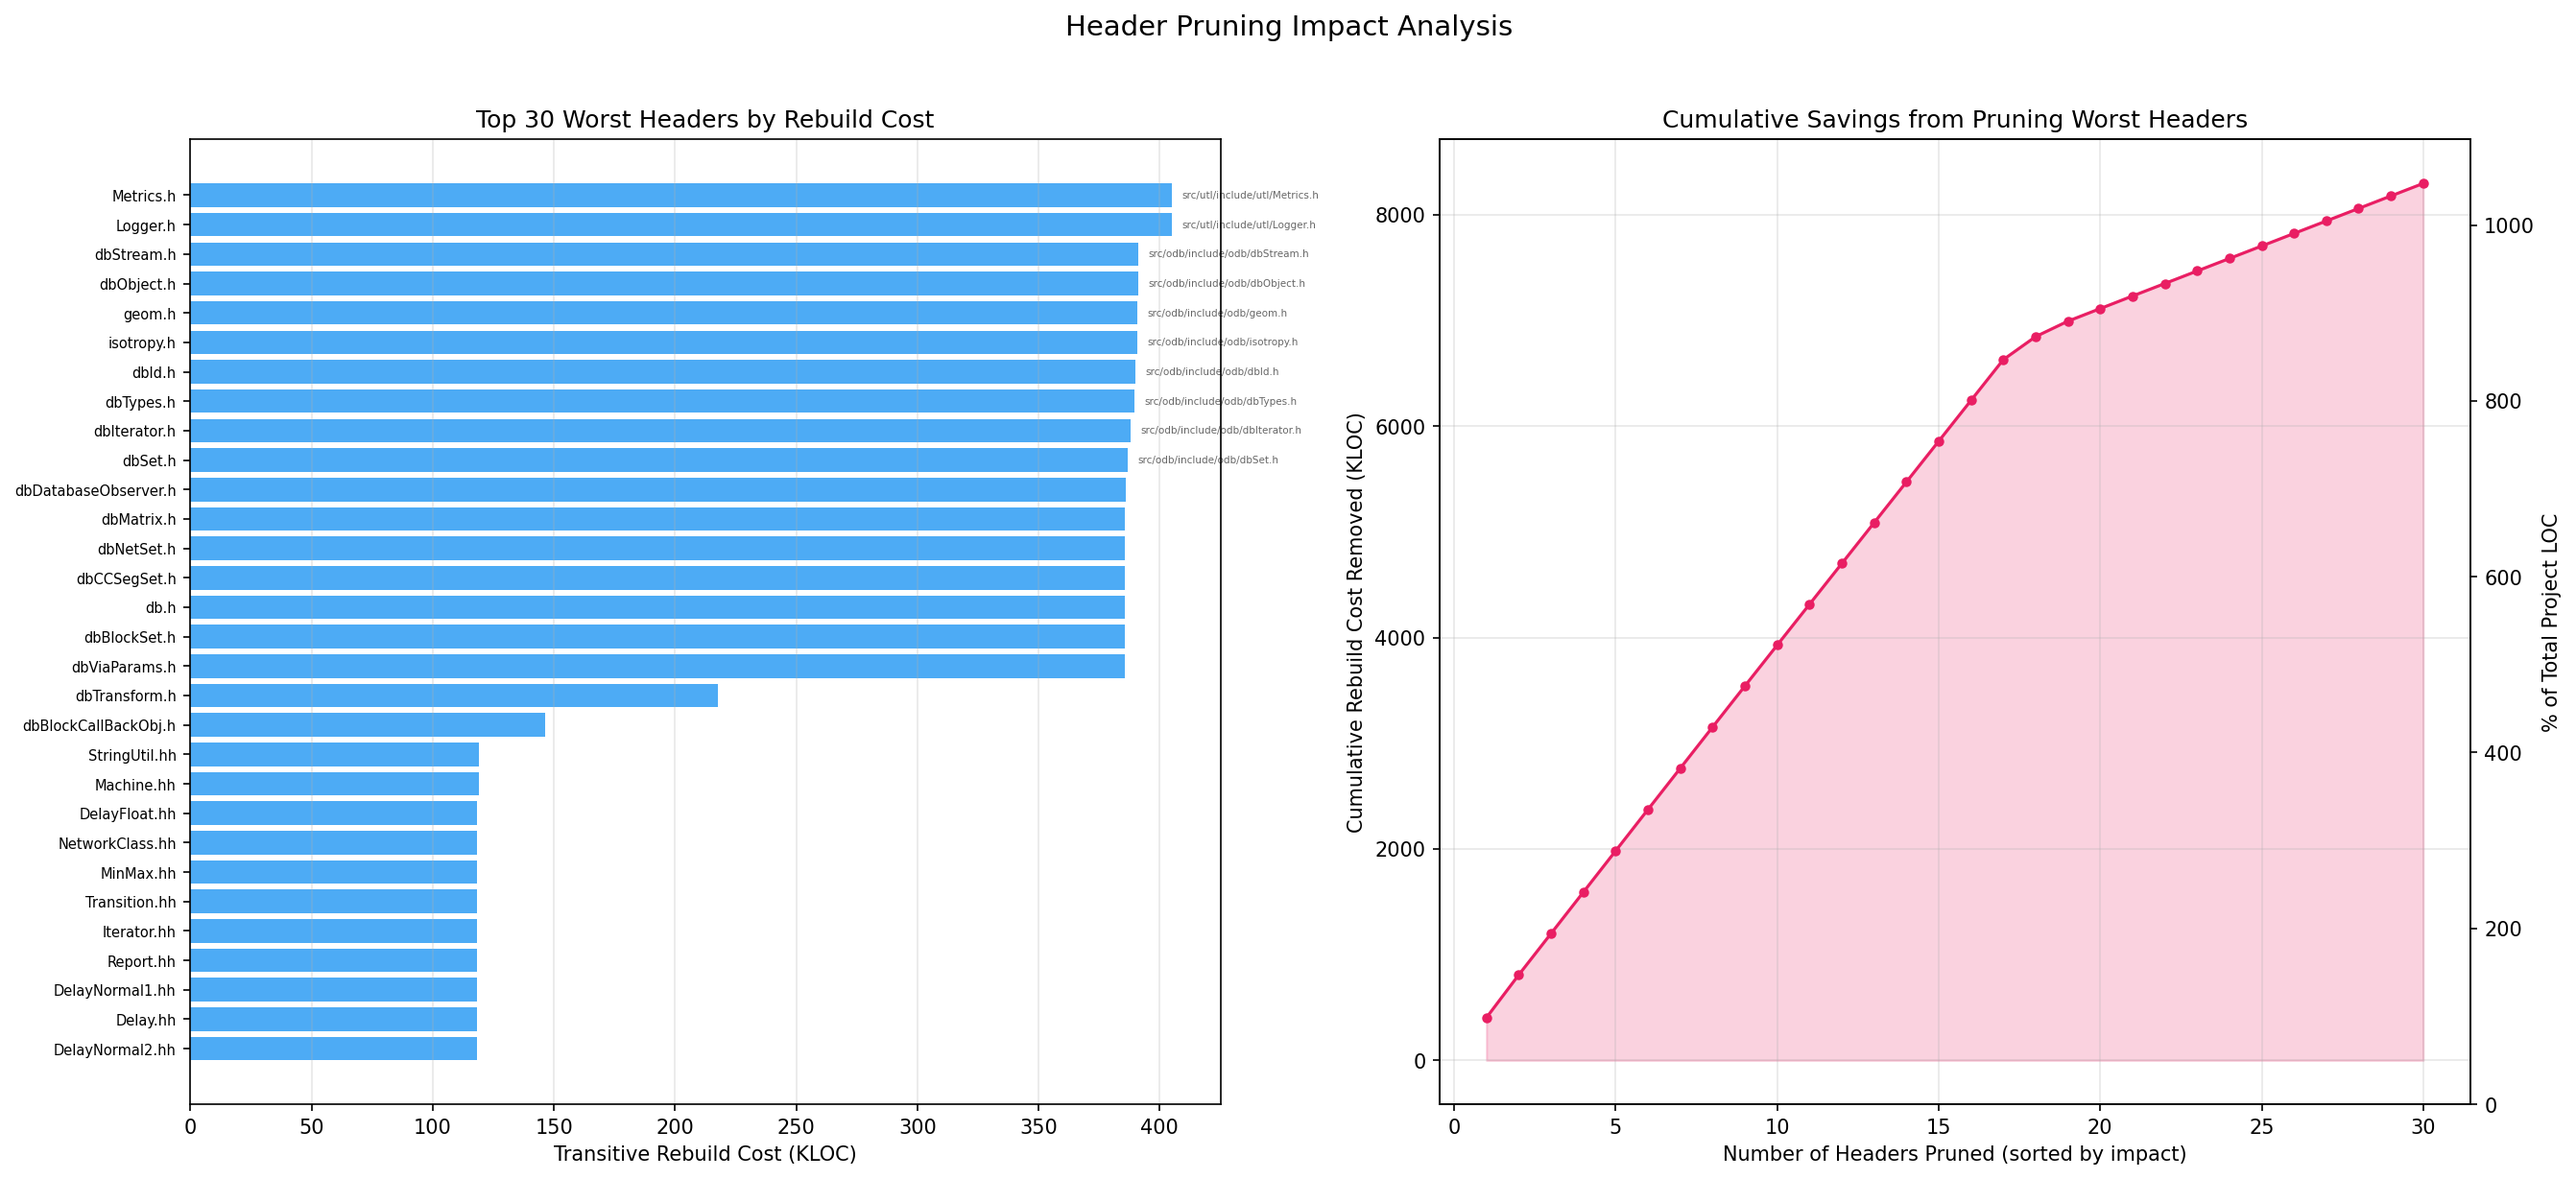
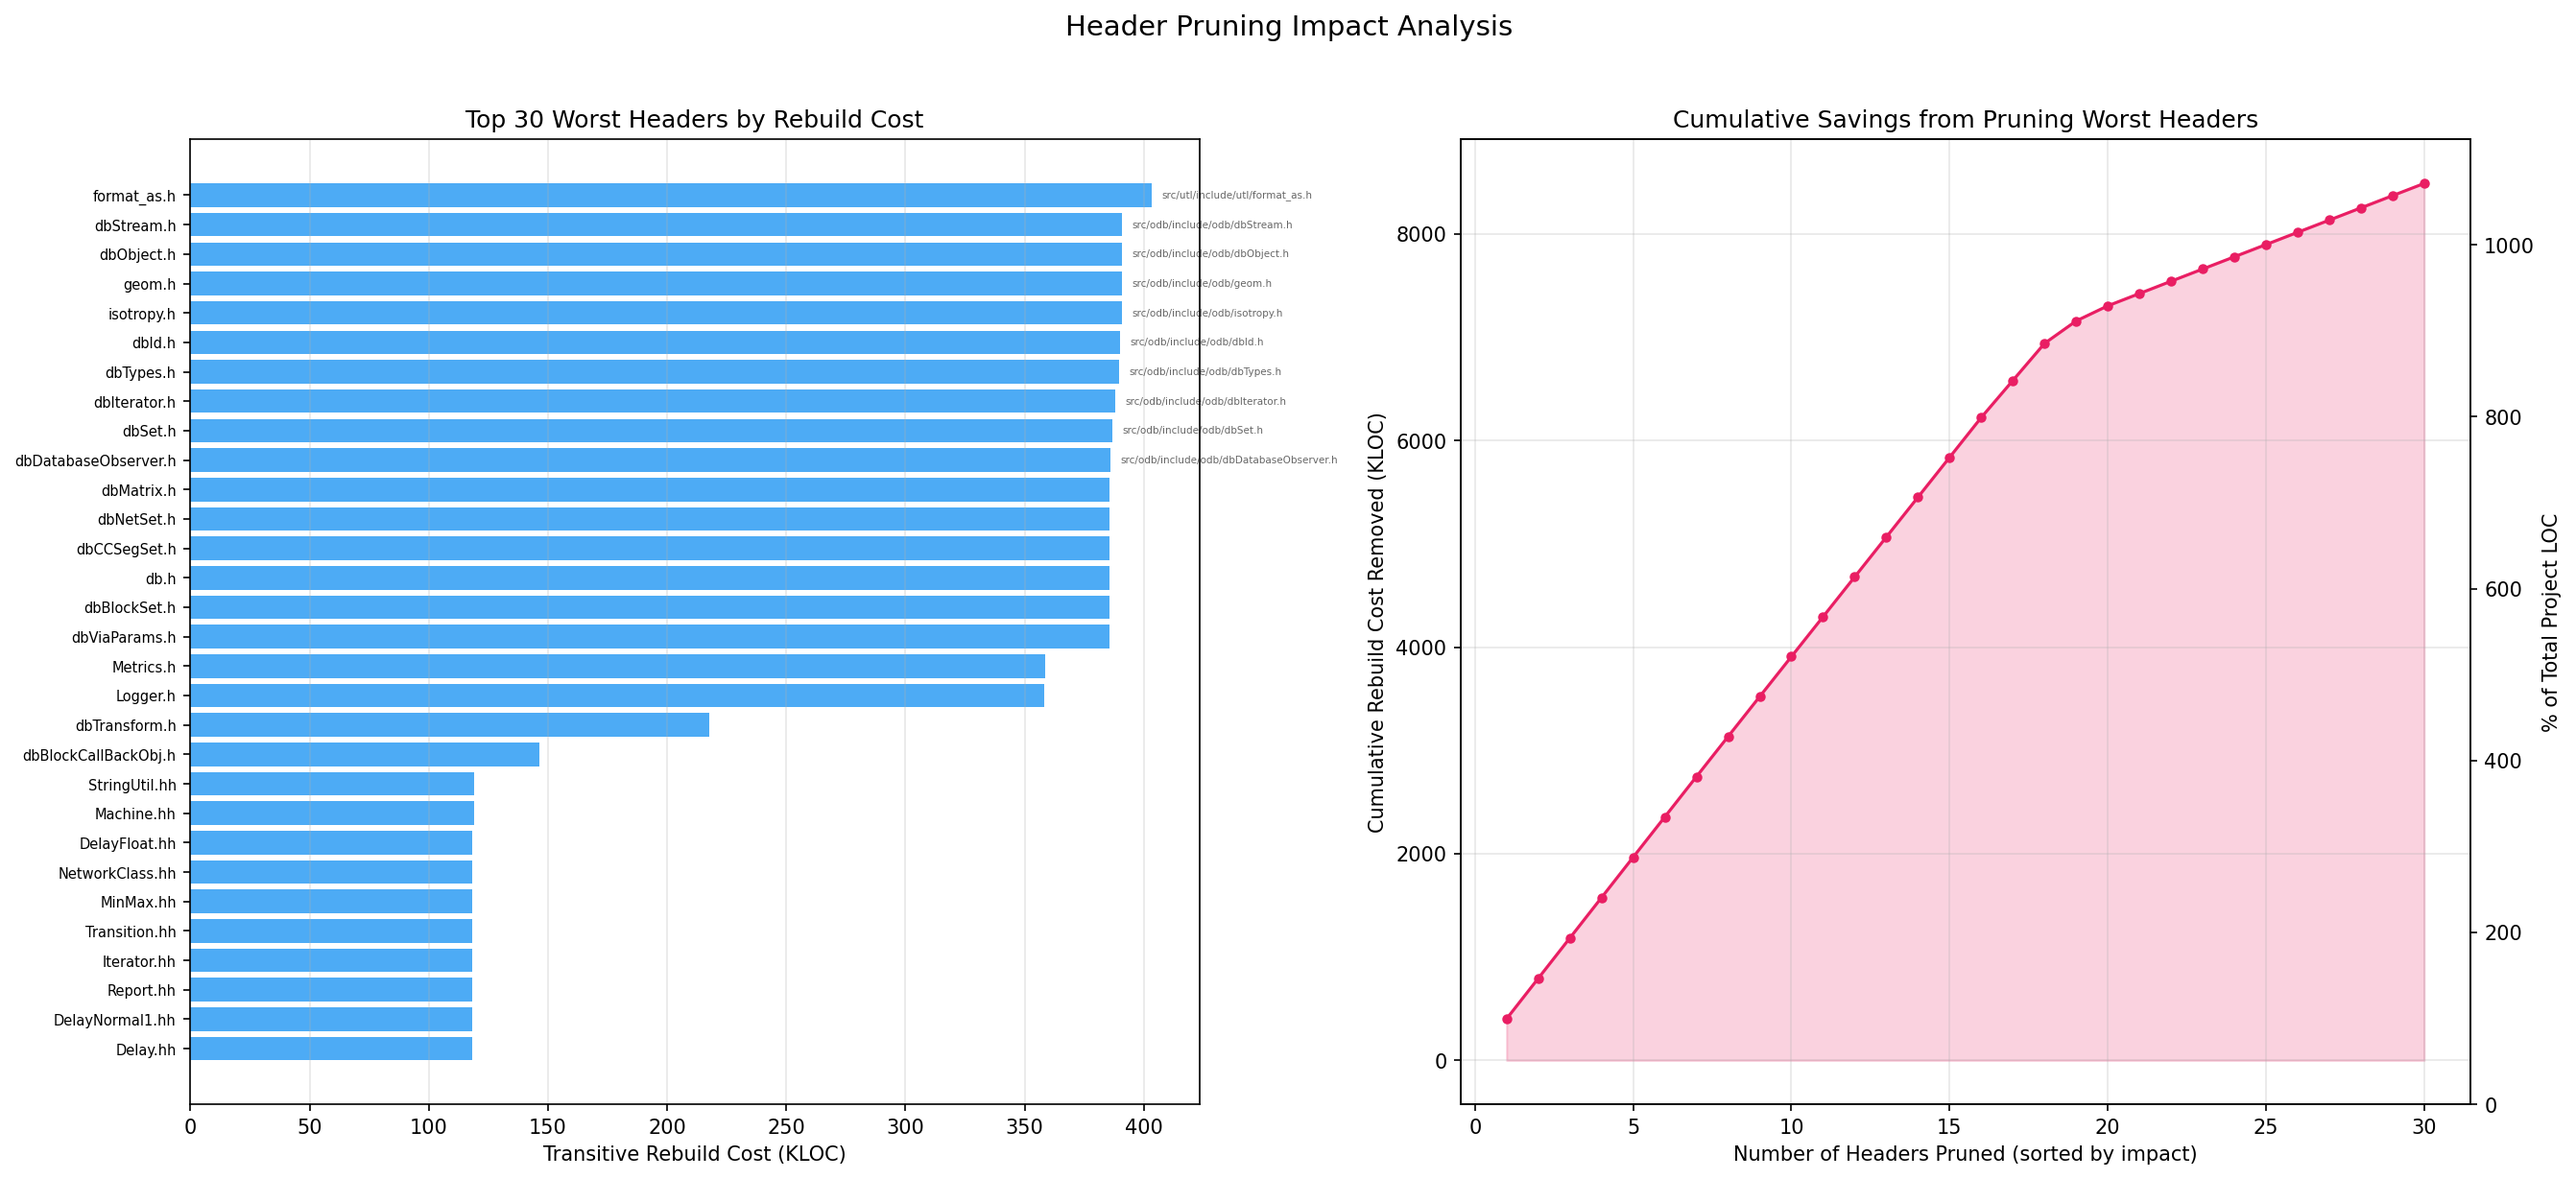
tools/stats: update README with proof of principle results
Add experiment results showing Logger.h rebuild cost dropped from
404,834 LOC (65.8%) to 358,431 LOC (58.3%) after 4 one-line header
changes. Regenerate all dependency graphs and plots.

diff --git a/tools/stats/README.md b/tools/stats/README.md
@@ -1,5 +1,31 @@
 # Build Dependency Analysis & Compile-Time Estimation
 
+## Proof of Principle Experiment
+
+4 headers changed (1 line each) + 1 new 25-line `utl/format_as.h`.
+All 1188 tests pass.
+
+| # | Change | Header | Before | After | Result |
+|---|--------|--------|-------:|------:|--------|
+| 1 | `Logger.h` → `format_as.h` | `odb/isotropy.h` | 404,834 LOC (65.8%) via Logger.h | 358,431 LOC (58.3%) | Logger.h decoupled from odb chain |
+| 2 | `Logger.h` → `format_as.h` | `odb/geom.h` | (same cluster) | (same cluster) | Breaks geom.h → Logger.h edge |
+| 3 | `Logger.h` → fwd decl | `stt/SteinerTreeBuilder.h` | 73,124 LOC (11.9%) | No longer pulls Logger.h transitively | Consumers save ~400 lines of header parsing |
+| 4 | `Logger.h` → fwd decl | `dpl/Opendp.h` | 58,608 LOC (9.5%) | No longer pulls Logger.h transitively | Consumers save ~400 lines of header parsing |
+
+**Note:** Change 5 (`drt/frBaseTypes.h`) was reverted — it uses
+`utl::ToolId` which requires the full Logger.h.
+
+**Net result:** `Logger.h` rebuild cost dropped from **404,834 LOC
+(65.8%) to 358,431 LOC (58.3%)** — a 46K LOC reduction. Changes to
+Logger.h (metrics, log IDs, spdlog upgrades) no longer cascade through
+the odb include chain. Average rebuild cost per commit dropped from
+22,664 to 22,565 LOC.
+
+**What this proves:** The facade pattern works. A single missing
+`#include` was needed (`psm/connection.cpp`), confirming that the
+transitive dependency was unnecessary. The full 50/75/90% reduction
+plan below would multiply this effect across all module boundaries.
+
 ## Key Findings
 
 A single include cluster — `utl/Logger.h` -> `odb/isotropy.h` ->
@@ -46,20 +72,20 @@ triggered any external recompilation if facades were in place.**
 
 <!-- DEP_TREE_START -->
 ```
-Total project .cpp LOC: 614,871
+Total project .cpp LOC: 614,872
 
-utl/Logger.h ················································  404,834 LOC ( 65.8%)  418 external .cpp
+utl/Logger.h ················································  358,431 LOC ( 58.3%)  379 external .cpp
 │
-├── utl/Metrics.h ···········································  404,941 LOC ( 65.9%)  419 external .cpp
+├── utl/Metrics.h ···········································  358,538 LOC ( 58.3%)  380 external .cpp
 │
-├── odb/isotropy.h ··········································  390,855 LOC ( 63.6%)  373 external .cpp
-│   └── odb/geom.h ··········································  390,855 LOC ( 63.6%)  373 external .cpp
-│       └── odb/dbTypes.h ···································  389,678 LOC ( 63.4%)  370 external .cpp
-│           └── odb/db.h ····································  385,672 LOC ( 62.7%)  363 external .cpp
-│                   ├── odb/dbObject.h ······················  391,008 LOC ( 63.6%)  370 external .cpp
-│                   ├── odb/dbSet.h ·························  386,854 LOC ( 62.9%)  363 external .cpp
-│                   ├── odb/dbStream.h ······················  391,008 LOC ( 63.6%)  370 external .cpp
-│                   └── odb/dbMatrix.h ······················  385,741 LOC ( 62.7%)  363 external .cpp
+├── odb/isotropy.h ··········································  390,856 LOC ( 63.6%)  373 external .cpp
+│   └── odb/geom.h ··········································  390,856 LOC ( 63.6%)  373 external .cpp
+│       └── odb/dbTypes.h ···································  389,679 LOC ( 63.4%)  370 external .cpp
+│           └── odb/db.h ····································  385,673 LOC ( 62.7%)  363 external .cpp
+│                   ├── odb/dbObject.h ······················  391,009 LOC ( 63.6%)  370 external .cpp
+│                   ├── odb/dbSet.h ·························  386,855 LOC ( 62.9%)  363 external .cpp
+│                   ├── odb/dbStream.h ······················  391,009 LOC ( 63.6%)  370 external .cpp
+│                   └── odb/dbMatrix.h ······················  385,742 LOC ( 62.7%)  363 external .cpp
 
 Consumer module headers:
   db_sta/dbSta.hh ···········································  102,052 LOC ( 16.6%)  109 external .cpp
